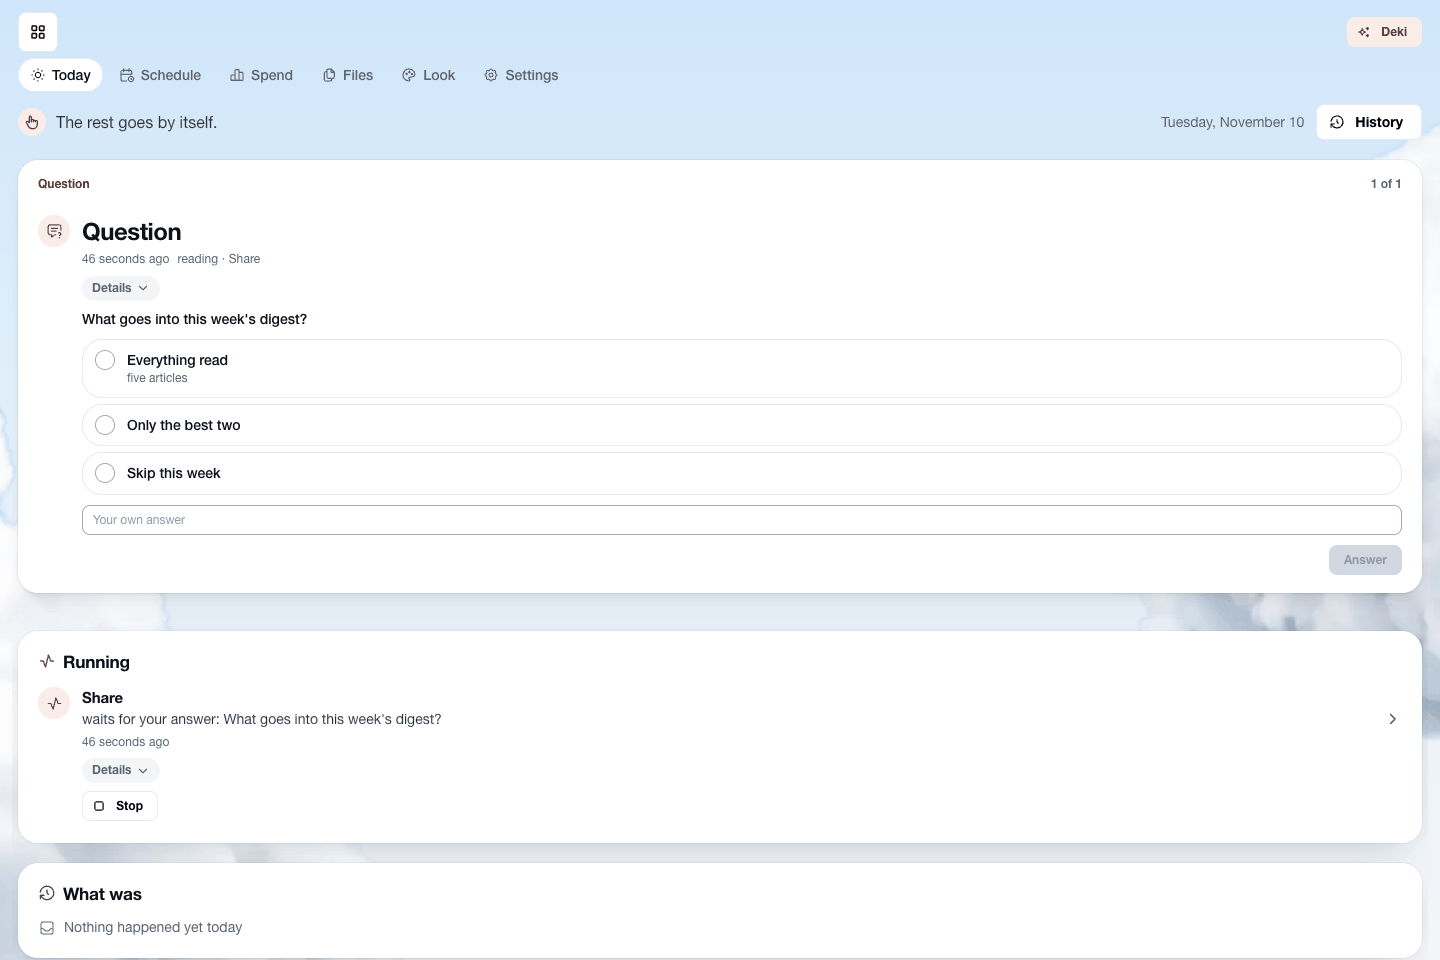
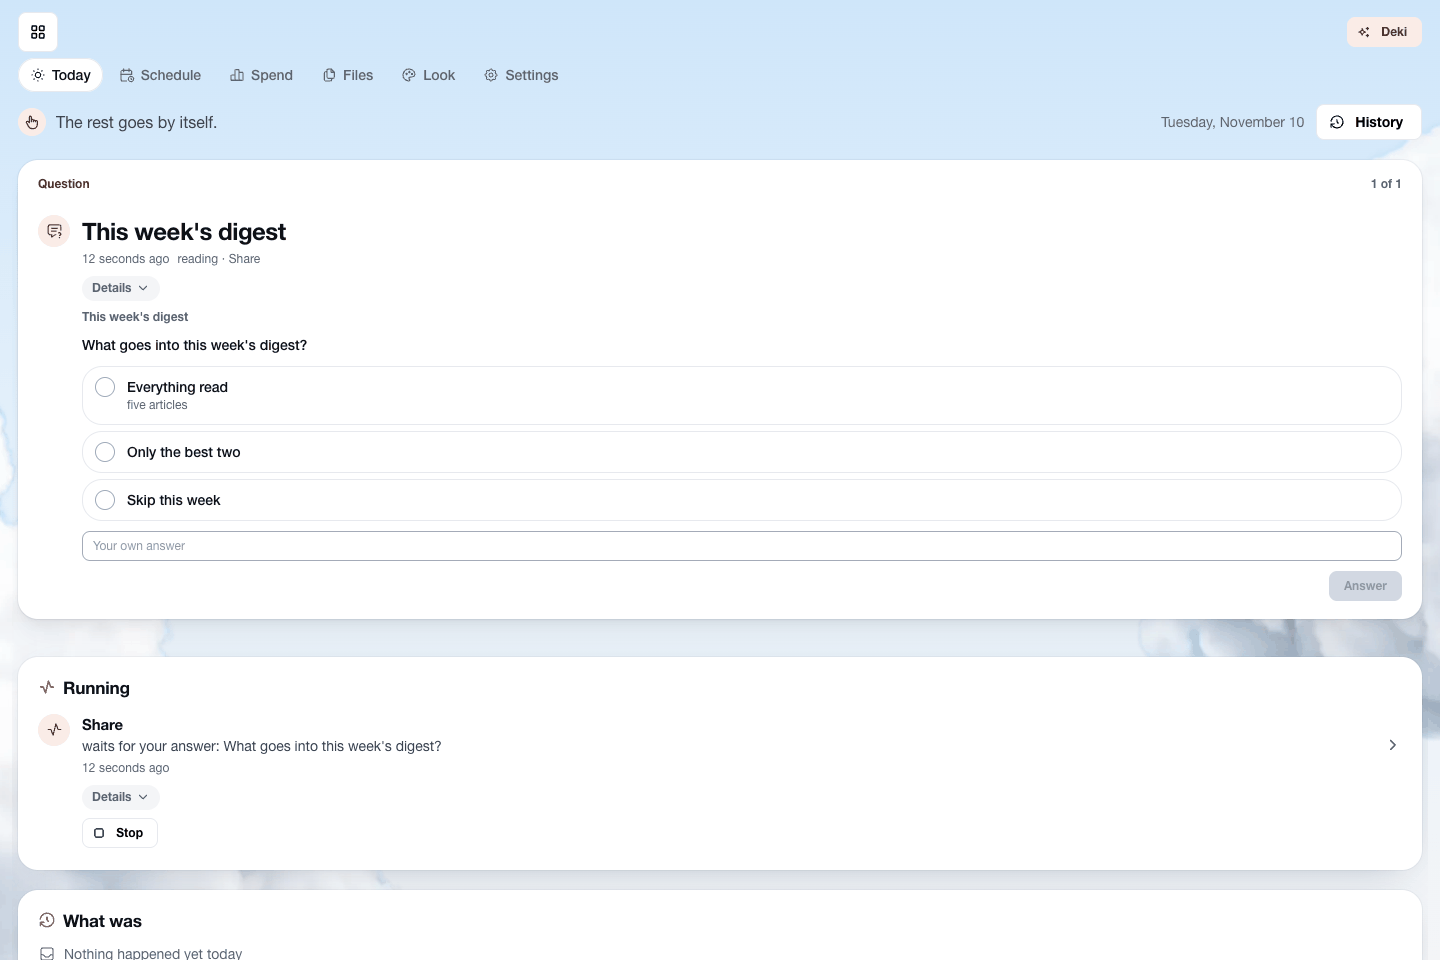
docs: install for newcomers: server pairing, prerequisites, node binary
The README says what deck needs before the install line, how a server
gets its https address before pairing, where .env lives, the Tailscale
host steps under phones, what to do first, and updating from v0.2 and
v0.1. node.md says which binary to download and how macOS treats it.
The shots name a real agent, title the question, and show a draft in
place of a module screen the chat already shows.

diff --git a/tests/scenarios/browser/browser_showcase_test.go b/tests/scenarios/browser/browser_showcase_test.go
@@ -52,6 +52,17 @@ var pricesManifest = harness.Manifest(`{"title": "Price watch",
       "series": [{"label": "Price", "y": "price"}], "format": "money", "currency": "USD"}]}],
   "menu": ["main"]}`)
 
+// mailerManifest is a demo module that comes as a draft: a schedule, a command that sends mail out and a site it reads.
+var mailerManifest = harness.Manifest(`{"title": "Weekly mailer",
+  "commands": [
+    {"name": "collect", "title": "Collect", "description": "Collects the week's links.", "class": "internal", "input": {"type": "object", "properties": {}},
+     "executor": {"type": "agent", "prompt": "Collect the week's links."}, "result": {"type": "object"}},
+    {"name": "send", "title": "Send", "description": "Mails the week's links to the owner.", "class": "external",
+     "input": {"type": "object", "properties": {"process": {"type": "integer", "format": "process"}}},
+     "executor": {"type": "agent", "prompt": "Mail the links."}, "result": {"type": "object"}}],
+  "triggers": [{"command": "collect", "cron": "0 9 * * 1"}, {"command": "send", "after": "collect"}],
+  "domains": {"read": ["news.ycombinator.com"]}}`)
+
 // digestManifest is a demo module of the morning's news: a list widget.
 var digestManifest = harness.Manifest(`{"title": "Morning digest",
   "collections": [{"name": "items", "description": "A story.", "key": "title", "display": "title",
@@ -67,7 +78,7 @@ func showcaseAgent(ctx context.Context, c *harness.Call) provider.Result {
 		return provider.Result{Structured: []byte(`{}`)}
 	}
 	if c.Command() == "share" {
-		c.Approve(ctx, "AskUserQuestion", map[string]any{"questions": []map[string]any{{"question": "What goes into this week's digest?",
+		c.Approve(ctx, "AskUserQuestion", map[string]any{"questions": []map[string]any{{"header": "This week's digest", "question": "What goes into this week's digest?",
 			"options": []map[string]any{{"label": "Everything read", "description": "five articles"}, {"label": "Only the best two"}, {"label": "Skip this week"}}}}})
 		return provider.Result{Structured: []byte(`{}`)}
 	}
@@ -82,11 +93,11 @@ func showcaseAgent(ctx context.Context, c *harness.Call) provider.Result {
 }
 
 // TestRealBrowserShowcase: deck on demo modules as the README shows it: the tiles with live widgets, Today with one
-// decision, a module screen, Deki answering with a chart beside it, and the tiles on a phone.
+// decision, the tiles on a phone, Deki answering with a chart beside a module screen, and a draft before enabling.
 func TestRealBrowserShowcase(t *testing.T) {
 	harness.Needs(t, "DECK_REAL_BROWSER")
 	t.Parallel()
-	e := harness.New(t, harness.WithAgent(showcaseAgent))
+	e := harness.New(t, harness.WithProvider(&harness.Fake{ProviderName: "claude-code", Script: showcaseAgent}))
 	reading := e.Project("reading", readingManifest)
 	e.Project("prices", pricesManifest)
 	e.Project("digest", digestManifest)
@@ -124,15 +135,22 @@ func TestRealBrowserShowcase(t *testing.T) {
 	b.call("browser_resize", map[string]any{"width": 1440, "height": 540})
 	b.until("the widgets kept in a lower window", `document.querySelector('[data-cell="prices"] [data-widget="2x1"] svg')`)
 	b.shot("readme-tiles")
-	b.call("browser_resize", map[string]any{"width": 1440, "height": 960})
 
-	b.open(b.base + "/#/deck/cockpit")
+	b.call("browser_resize", map[string]any{"width": 390, "height": 844})
+	b.open(b.base + "/?reload=2#/")
+	b.until("the tiles on a phone", `document.querySelector('[data-phone-tabs]') && document.querySelector('[data-cell="reading"] [data-widget]')`)
+	if got := b.eval(`String(document.documentElement.scrollWidth <= innerWidth + 1)`); got != "true" {
+		t.Fatalf("the tiles fit the phone: %s", got)
+	}
+	b.call("browser_take_screenshot", map[string]any{"filename": "web-readme-phone.png"})
+
+	b.call("browser_resize", map[string]any{"width": 1440, "height": 960})
+	b.open(b.base + "/?reload=3#/deck/cockpit")
 	b.until("one decision on Today", `document.querySelector('[data-focus]')?.dataset.left === '1'`)
 	b.shot("readme-today")
 
 	b.open(b.base + "/#/p/reading/list")
 	b.until("the module screen with its panel, chart and table", `document.querySelector('[data-side]') && document.querySelector('[data-block] svg') && document.querySelectorAll('[data-grid] tbody tr').length === 6`)
-	b.shot("readme-module")
 
 	b.eval(`(document.querySelector('[data-chat-toggle]').click(), '')`)
 	b.until("the chat", `document.querySelector('[data-chat-input]')`)
@@ -143,11 +161,14 @@ func TestRealBrowserShowcase(t *testing.T) {
 	b.eval(`(document.querySelector('[data-chat-close]').click(), '')`)
 	b.until("the chat closed", `!document.querySelector('[data-chat-input]')?.checkVisibility()`)
 
-	b.call("browser_resize", map[string]any{"width": 390, "height": 844})
-	b.open(b.base + "/?reload=2#/")
-	b.until("the tiles on a phone", `document.querySelector('[data-phone-tabs]') && document.querySelector('[data-cell="reading"] [data-widget]')`)
-	if got := b.eval(`String(document.documentElement.scrollWidth <= innerWidth + 1)`); got != "true" {
-		t.Fatalf("the tiles fit the phone: %s", got)
+	_, tok := e.Token("import", "deck.*")
+	if code, out := e.As(tok).Call("deck.project_create", map[string]any{"name": "mailer", "manifest": mailerManifest}); code != 200 {
+		t.Fatalf("the mailer comes as a draft: %d %s", code, out)
 	}
-	b.call("browser_take_screenshot", map[string]any{"filename": "web-readme-phone.png"})
+	b.call("browser_resize", map[string]any{"width": 1440, "height": 540})
+	b.open(b.base + "/#/deck/settings?tab=Modules")
+	b.until("the draft in the modules", itemOf("Weekly mailer", "draft"))
+	b.eval(pressIn(itemOf("Weekly mailer", "draft"), "review"))
+	b.until("the page of what the draft may do", `location.hash.startsWith('#/deck/draft') && document.querySelector('[data-verb="enable"]') && document.body.innerText.includes('What it may do once enabled')`)
+	b.shot("readme-draft")
 }

diff --git a/README.md b/README.md
@@ -20,13 +20,13 @@ on your own machine, in a sandbox, with every outbound step waiting for your one
 ## Why deck
 
 Coding agents are good enough to do real work. Sitting in a chat to start each run is not. deck turns a routine —
-reading sources, watching prices, triaging pull requests, making short videos — into a **module** that runs on a
-schedule, keeps its data and shows the result on a card. You open deck in the morning, see what was done, and
-answer the one or two things that need you.
+reading sources, watching prices, triaging pull requests, making short videos — into a **module**: a routine deck
+runs for you, with its own data, screen, scripts and agent commands, on a schedule, its result on a card. You open
+deck in the morning, see what was done, and answer the one or two things that need you.
 
-- **Ask for a module in words.** Deki, the built-in master agent, interviews you for a minute, builds the module
-  (data, commands, schedule, screens, widgets), tries it as a draft and hands it over. Later you just tell it what
-  to change.
+- **Ask for a module in words.** Deki, deck's built-in assistant that builds and changes modules, interviews you for
+  a minute, builds the module (data, commands, schedule, screens, widgets), tries it as a draft and hands it over.
+  Later you just tell it what to change.
 - **Nothing important happens behind your back.** Anything that leaves the machine, spends money or widens a
   module's rights waits for your yes, and a button you press already is that yes. What agents changed on their own
   is one line per run under **Done without you**, with an undo.
@@ -46,8 +46,8 @@ The chat sees the screen; a reply can carry a block — a chart, a table, a form
 What waits for you comes first, one at a time, and is answered right there.</sub></td>
 </tr>
 <tr>
-<td width="50%"><img src="docs/screenshots/module.png" alt="A module screen with a side panel of a filter and stats, a chart and a table"><br><sub><b>A module screen.</b>
-A side panel, a chart and a table, all from the module's manifest.</sub></td>
+<td width="50%"><img src="docs/screenshots/draft.png" alt="A draft module: what it may do once enabled"><br><sub><b>A draft before enabling.</b>
+A module someone else made comes as a draft that says what it may do; only its trials run until you enable it.</sub></td>
 <td width="50%" align="center"><img src="docs/screenshots/phone.png" alt="The tiles on a phone" width="240"><br><sub><b>On a phone.</b>
 The same tiles and a tab bar for the thumb; added to the home screen, deck gets pushes and shared links.</sub></td>
 </tr>
@@ -59,7 +59,7 @@ The same tiles and a tab bar for the thumb; added to the home screen, deck gets 
   a small screen of its own data (stats, lists, charts) that updates the moment the data changes; for a size the
   module has no view for, **Draw a widget** asks Deki to design one. **Today** is deck's own card: what waits, failed,
   runs and was done, and what the day cost.
-- **Deki, the master agent.** A side chat next to any screen that sees what you look at. One line shows what it is
+- **Deki.** A side chat next to any screen that sees what you look at. One line shows what it is
   doing now, with a timer, the model and Stop; questions come as cards; long work goes to a process of its own. A
   reply can show a block of the catalog under its text, and your press is the answer.
 - **Memory.** Deki keeps the facts you told it and lessons from what went wrong, finds them by search, and goes over
@@ -92,15 +92,21 @@ The full picture is in [docs/architecture.md](docs/architecture.md).
 ## Install
 
 One way for every machine: Docker with compose and deck's image, with Claude Code, Codex, uv and a browser inside.
-On Linux, Docker Engine; on a Mac, [OrbStack](https://orbstack.dev) or Docker Desktop; on Windows, Docker Desktop
-(not tried yet, see [docs/install.md](docs/install.md#windows)).
+You need first:
+
+- **Linux:** [Docker Engine](https://docs.docker.com/engine/install/) with the compose plugin, your user in the group
+  `docker` ([how](https://docs.docker.com/engine/install/linux-postinstall/)).
+- **Mac:** [OrbStack](https://orbstack.dev) or Docker Desktop.
+- **Windows:** Docker Desktop with WSL 2 (not tried yet, see [docs/install.md](docs/install.md#windows)).
+
+Then, as your user and not with `sudo` (under `sudo` it would put deck in root's home, `/root/deck`):
 
 ```bash
 curl -fsSL https://raw.githubusercontent.com/teaarte/deck/master/install.sh | sh
 ```
 
 It puts deck in `~/deck` (`DECK_DIR` for another folder), loads the AppArmor profile on Ubuntu and Debian (`sudo` asks
-once), starts deck and prints a link that pairs your device. By hand:
+once, for that alone), starts deck and prints a link that pairs your device (on a server, see "On a server" below first). By hand:
 
 ```bash
 mkdir deck && cd deck
@@ -111,50 +117,65 @@ docker compose up -d
 docker compose exec deck deck pair        # a link that pairs a device
 ```
 
-deck restarts with Docker and the machine; its data and the agents' logins stay in the volume `deck`. Open the link,
-then sign in to the agents in Settings → Models → **Sign in** (Codex shows a link and a code, Claude Code a link whose
-page gives the code). The models, agents and folders of the machine itself reach deck in the container through a
-[node](docs/node.md). A server with a domain, what the container needs, Windows and building from source:
-[docs/install.md](docs/install.md).
+deck restarts with Docker and the machine; its data and the agents' logins stay in the volume `deck`. Its settings
+are the file `.env` beside `compose.yaml` (in `~/deck`); the installer keeps an existing one.
 
-**Open deck.** On this machine: <http://deck.localhost:7700> — browsers treat `deck.localhost` as secure, so a passkey
-works there without https (tried in Chromium and Safari). From a phone and other devices, over https only: Tailscale
-on the machine (`tailscale serve --bg 7700` and `tailscale serve --bg --https=8443 7701`, with
-`DECK_DOMAIN=<machine>.<tailnet>.ts.net` in `.env`) or [your own domain](docs/install.md#a-server-with-a-domain). On a
-phone, add deck to the home screen: pushes and sharing a link or a file into a module work as in a native app.
+**First steps.** Open the link, then sign in to the agents in Settings → Models → **Sign in** (Codex shows a link and a
+code, Claude Code a link whose page gives the code). An empty deck says "Tell Deki what to do": describe a routine in
+the chat and Deki builds the module, or add the starter module it offers as a draft. The models, agents and folders of
+your own computer reach deck in the container through a [node](docs/node.md): the deck binary on your Mac, outside
+Docker, that lends deck its local models and folders.
 
 **Signing in.** There is no password and no owner token. A device pairs once by a link of `deck pair` (or of Settings →
 Devices on a device already signed in, with a QR code for a phone) and makes a passkey; the link works once, within
 ten minutes. Settings → Devices lists every device and passkey: revoking a device signs out that browser alone,
 revoking a passkey every browser that used it.
 
+**On this machine** deck is <http://deck.localhost:7700>: browsers treat `deck.localhost` as secure, so a passkey works
+there without https (tried in Chromium and Safari). That address opens only on the machine deck runs on.
+
+**On a server**, give deck its https address before you pair: in `~/deck`, put it in `.env`, run
+`docker compose up -d`, then `docker compose exec deck deck pair`, which prints the https link first.
+
+- With a domain pointing at the server (ports 80, 443 and 8443 open), Caddy in the same compose gets the certificate:
+  `printf 'DECK_DOMAIN=deck.example.com\nCOMPOSE_PROFILES=domain\n' > .env`. More in
+  [docs/install.md](docs/install.md#a-server-with-a-domain).
+- Without a domain, Tailscale gives the address, below.
+
+**From a phone and other devices**, deck needs https: your domain as above, or Tailscale on deck's machine and on the
+device:
+
+1. Install Tailscale on deck's machine and sign it in: on a Mac the Tailscale app with its command line (the app's
+   Settings → Install CLI), on a Linux server
+   `curl -fsSL https://tailscale.com/install.sh | sh && sudo tailscale up --operator=$USER`.
+2. On that machine: `tailscale serve --bg 7700` and `tailscale serve --bg --https=8443 7701`; `tailscale serve status`
+   shows the address, `https://<machine>.<tailnet>.ts.net`.
+3. Put `DECK_DOMAIN=<machine>.<tailnet>.ts.net` in `~/deck/.env` (no `COMPOSE_PROFILES=domain`: Tailscale serves
+   https, not Caddy) and run `docker compose up -d`.
+4. `docker compose exec deck deck pair` and open the https link on the phone; it makes a passkey there. Add deck to the
+   phone's home screen: pushes and sharing a link or a file into a module work as in a native app.
+
 ## Updating
 
-`docker compose pull && docker compose up -d`, or run the install line again (it asks before replacing a running
-deck; `DECK_YES=1` without a terminal). When a release is out, Settings → Advanced and the feed say so. On start, deck
-migrates its database and the stored manifests.
+Run the install line again: it downloads `compose.yaml`, `seccomp.json`, `deck-box.apparmor` and `move-to-docker.sh`
+anew, pulls the image and restarts deck (it asks before replacing a running deck; without a terminal, `DECK_YES=1`).
+`docker compose pull && docker compose up -d` in `~/deck` updates only the image. When a release is out, Settings →
+Advanced and the feed say so. On start, deck migrates its database and the stored manifests.
+
+**From v0.2.** Just update either way: since v0.2 the files beside `compose.yaml` changed only in comments.
 
 **From v0.1.** v0.1 ran agents as a user `agent` with their logins in a volume `agents`. Update the image first, with
 the old `compose.yaml`: on its first start the new image copies the logins into deck's volume. deck then starts no
 foreign program and says why; download the files of the install above, load the profile and run
 `docker compose up -d` again. The volume `deck_agents` is no longer used: `docker volume rm deck_agents`. A new
-`compose.yaml` before the new image leaves the logins behind, and the agents need to sign in again.
+`compose.yaml` before the new image leaves the logins behind, and the agents need to sign in again. A v0.1 server with
+a domain has only `DECK_DOMAIN` in `.env`: add `COMPOSE_PROFILES=domain`, or Caddy no longer starts.
 
 **Moving off the built-in Tailscale.** `DECK_TAILSCALE=deck` (deck joins your tailnet itself) goes away in a coming
-release; deck says so in its log and in Settings → Health (`tailscale:builtin`). Its node `deck` keeps serving until the
-last step, so the phone works meanwhile. A server that already has its domain with Caddy needs only step 5. On a Mac
-with OrbStack or a Linux server without a domain:
-
-1. Install Tailscale on the host and sign it in to the same tailnet: on a Mac the Tailscale app with its command line
-   (the app's Settings → Install CLI), on a Linux server
-   `curl -fsSL https://tailscale.com/install.sh | sh && sudo tailscale up --operator=$USER`.
-2. On the host: `tailscale serve --bg 7700` and `tailscale serve --bg --https=8443 7701`; `tailscale serve status`
-   shows the address, `https://<machine>.<tailnet>.ts.net`.
-3. Put `DECK_DOMAIN=<machine>.<tailnet>.ts.net` in `.env` (no `COMPOSE_PROFILES=domain`: Tailscale serves https, not
-   Caddy) and run `docker compose up -d`.
-4. `docker compose exec deck deck pair` and open the link at the new address on the phone; it makes a passkey there.
-5. Remove `DECK_TAILSCALE` from `.env`, run `docker compose up -d`, and remove the machine `deck` in the Tailscale
-   admin console (Machines).
+release; deck warns in its log and in Settings → Health. Its machine `deck` on the tailnet keeps serving until the
+last step, so the phone works meanwhile. A server that already has its domain with Caddy needs only the last step. On a Mac with
+OrbStack or a Linux server without a domain, first do steps 1–4 of "From a phone" above. Then remove `DECK_TAILSCALE`
+from `.env`, run `docker compose up -d`, and remove the machine `deck` in the Tailscale admin console (Machines).
 
 ## Status
 

diff --git a/docs/node.md b/docs/node.md
@@ -10,11 +10,22 @@ port; it reaches nothing of its network but its own loopback, and its key opens 
 
 1. On deck's machine run `deck pair --node --name Mac` (in Docker: `docker compose exec deck deck pair --node --name
    Mac`), or pair a node in Settings → Devices. It prints a command with a code that works once, within ten minutes.
-2. On the node's machine, with the binary of [the release](https://github.com/teaarte/deck/releases) for it, run that
-   command: `deck -join https://deck.example.com <code> --install` (for deck on the same Mac,
-   `deck -join http://127.0.0.1:7700 <code> --install`), with `--allow` and what deck may use there: the ports of its
-   models, its agents and folders, such as `--allow 8178,8190,claude-code,~/code/repo`.
-3. In Settings → Models → Connections set **Node** of each connection the node's machine serves, its address as on
+2. On the node's machine, download the plain binary of [the release](https://github.com/teaarte/deck/releases) for
+   it (`deck-darwin-arm64`, `deck-linux-amd64` or `deck-linux-arm64`, not the `-tailnet` one) into a folder it stays
+   in, since the service runs it from there, and make it executable:
+
+   ```bash
+   mkdir -p ~/.local/bin && cd ~/.local/bin
+   curl -fsSLo deck https://github.com/teaarte/deck/releases/latest/download/deck-darwin-arm64 && chmod +x deck
+   ```
+
+   The binary is not signed by Apple: downloaded with `curl` it runs; downloaded in a browser, macOS blocks it until
+   `xattr -d com.apple.quarantine deck`.
+3. Run the command of step 1 with that binary, adding `--allow` and what deck may use there: the ports of its models,
+   its agents and folders, such as
+   `./deck -join https://deck.example.com <code> --install --allow 8178,8190,claude-code,~/code/repo`
+   (for deck on the same Mac, `./deck -join http://127.0.0.1:7700 <code> --install …`).
+4. In Settings → Models → Connections set **Node** of each connection the node's machine serves, its address as on
    that machine, such as `http://127.0.0.1:8178` for whisper.
 
 The node keeps the list of what it allows itself, in `~/.deck2-node/state/node/allowed` (an edit there holds at once);

diff --git a/docs/install.md b/docs/install.md
@@ -6,15 +6,18 @@ container needs, Windows, moving a deck that ran without Docker, and deck withou
 ## A server with a domain
 
 On a Linux server (amd64 or arm64) with a domain name pointing at it and ports 80, 443 and 8443 open, put two lines in
-`.env` before `docker compose up -d`; Caddy in the same compose then gets the HTTPS certificate and serves deck at that
-name, with no Tailscale:
+`.env` beside `compose.yaml` (`~/deck/.env`); Caddy in the same compose then gets the HTTPS certificate and serves deck
+at that name, with no Tailscale:
 
 ```bash
+cd ~/deck
 printf 'DECK_DOMAIN=deck.example.com\nCOMPOSE_PROFILES=domain\n' > .env
+docker compose up -d
+docker compose exec deck deck pair     # the https link first; the deck.localhost one opens only on the server
 ```
 
-A server set up before Caddy came under the profile has only `DECK_DOMAIN` in `.env`: add `COMPOSE_PROFILES=domain`
-when you download the new `compose.yaml`, or Caddy no longer starts (deck says so in its log).
+The install line keeps an existing `.env`, so these lines may also come before it, and the link it prints is then the
+https one first. Without `COMPOSE_PROFILES=domain` Caddy does not start (deck says so in its log).
 
 ## What the container needs
 
@@ -37,7 +40,7 @@ tried yet.
 Not tried yet: GitHub's Windows runners do not run Linux containers, so no test covers it. Install Docker Desktop
 with the WSL 2 backend, download the files of the README's install by hand into a folder (`curl.exe` in PowerShell, or
 in WSL) and run `docker compose up -d` there, skipping the AppArmor step. deck works when Settings → Health shows the
-box `ok`, a script of a starter module runs, and the link of `docker compose logs deck` pairs at
+box `ok`, a script of a starter module runs, and the link of `docker compose exec deck deck pair` pairs at
 http://deck.localhost:7700 in Edge or Chrome.
 
 ## Moving from deck without Docker
